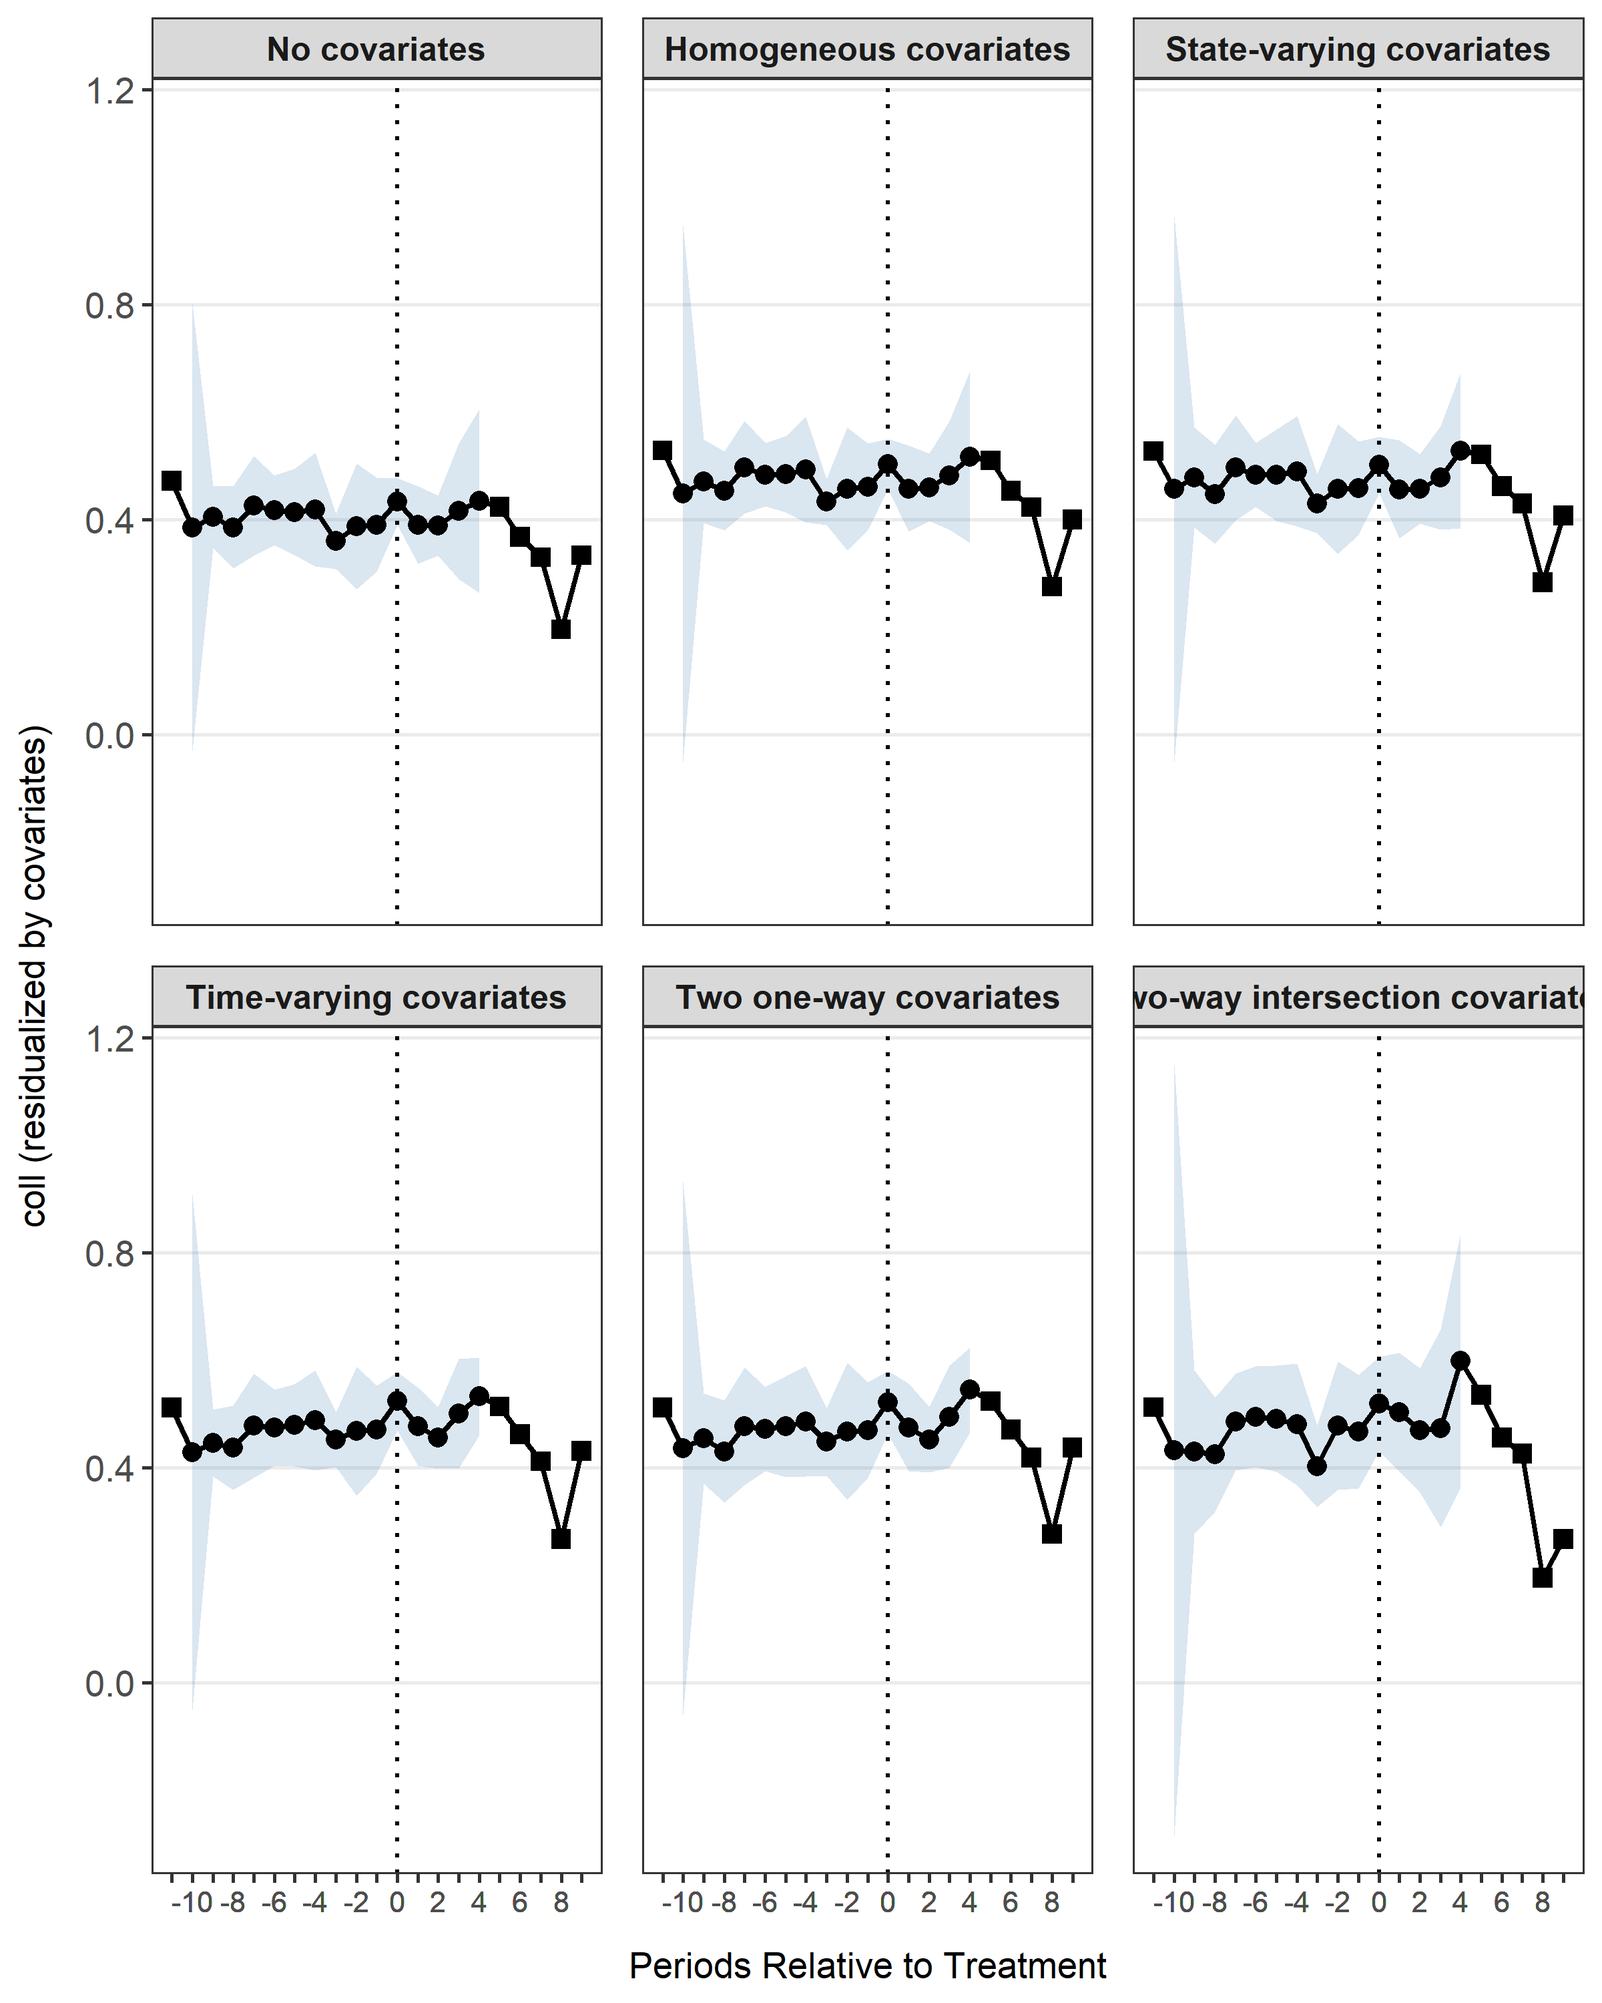
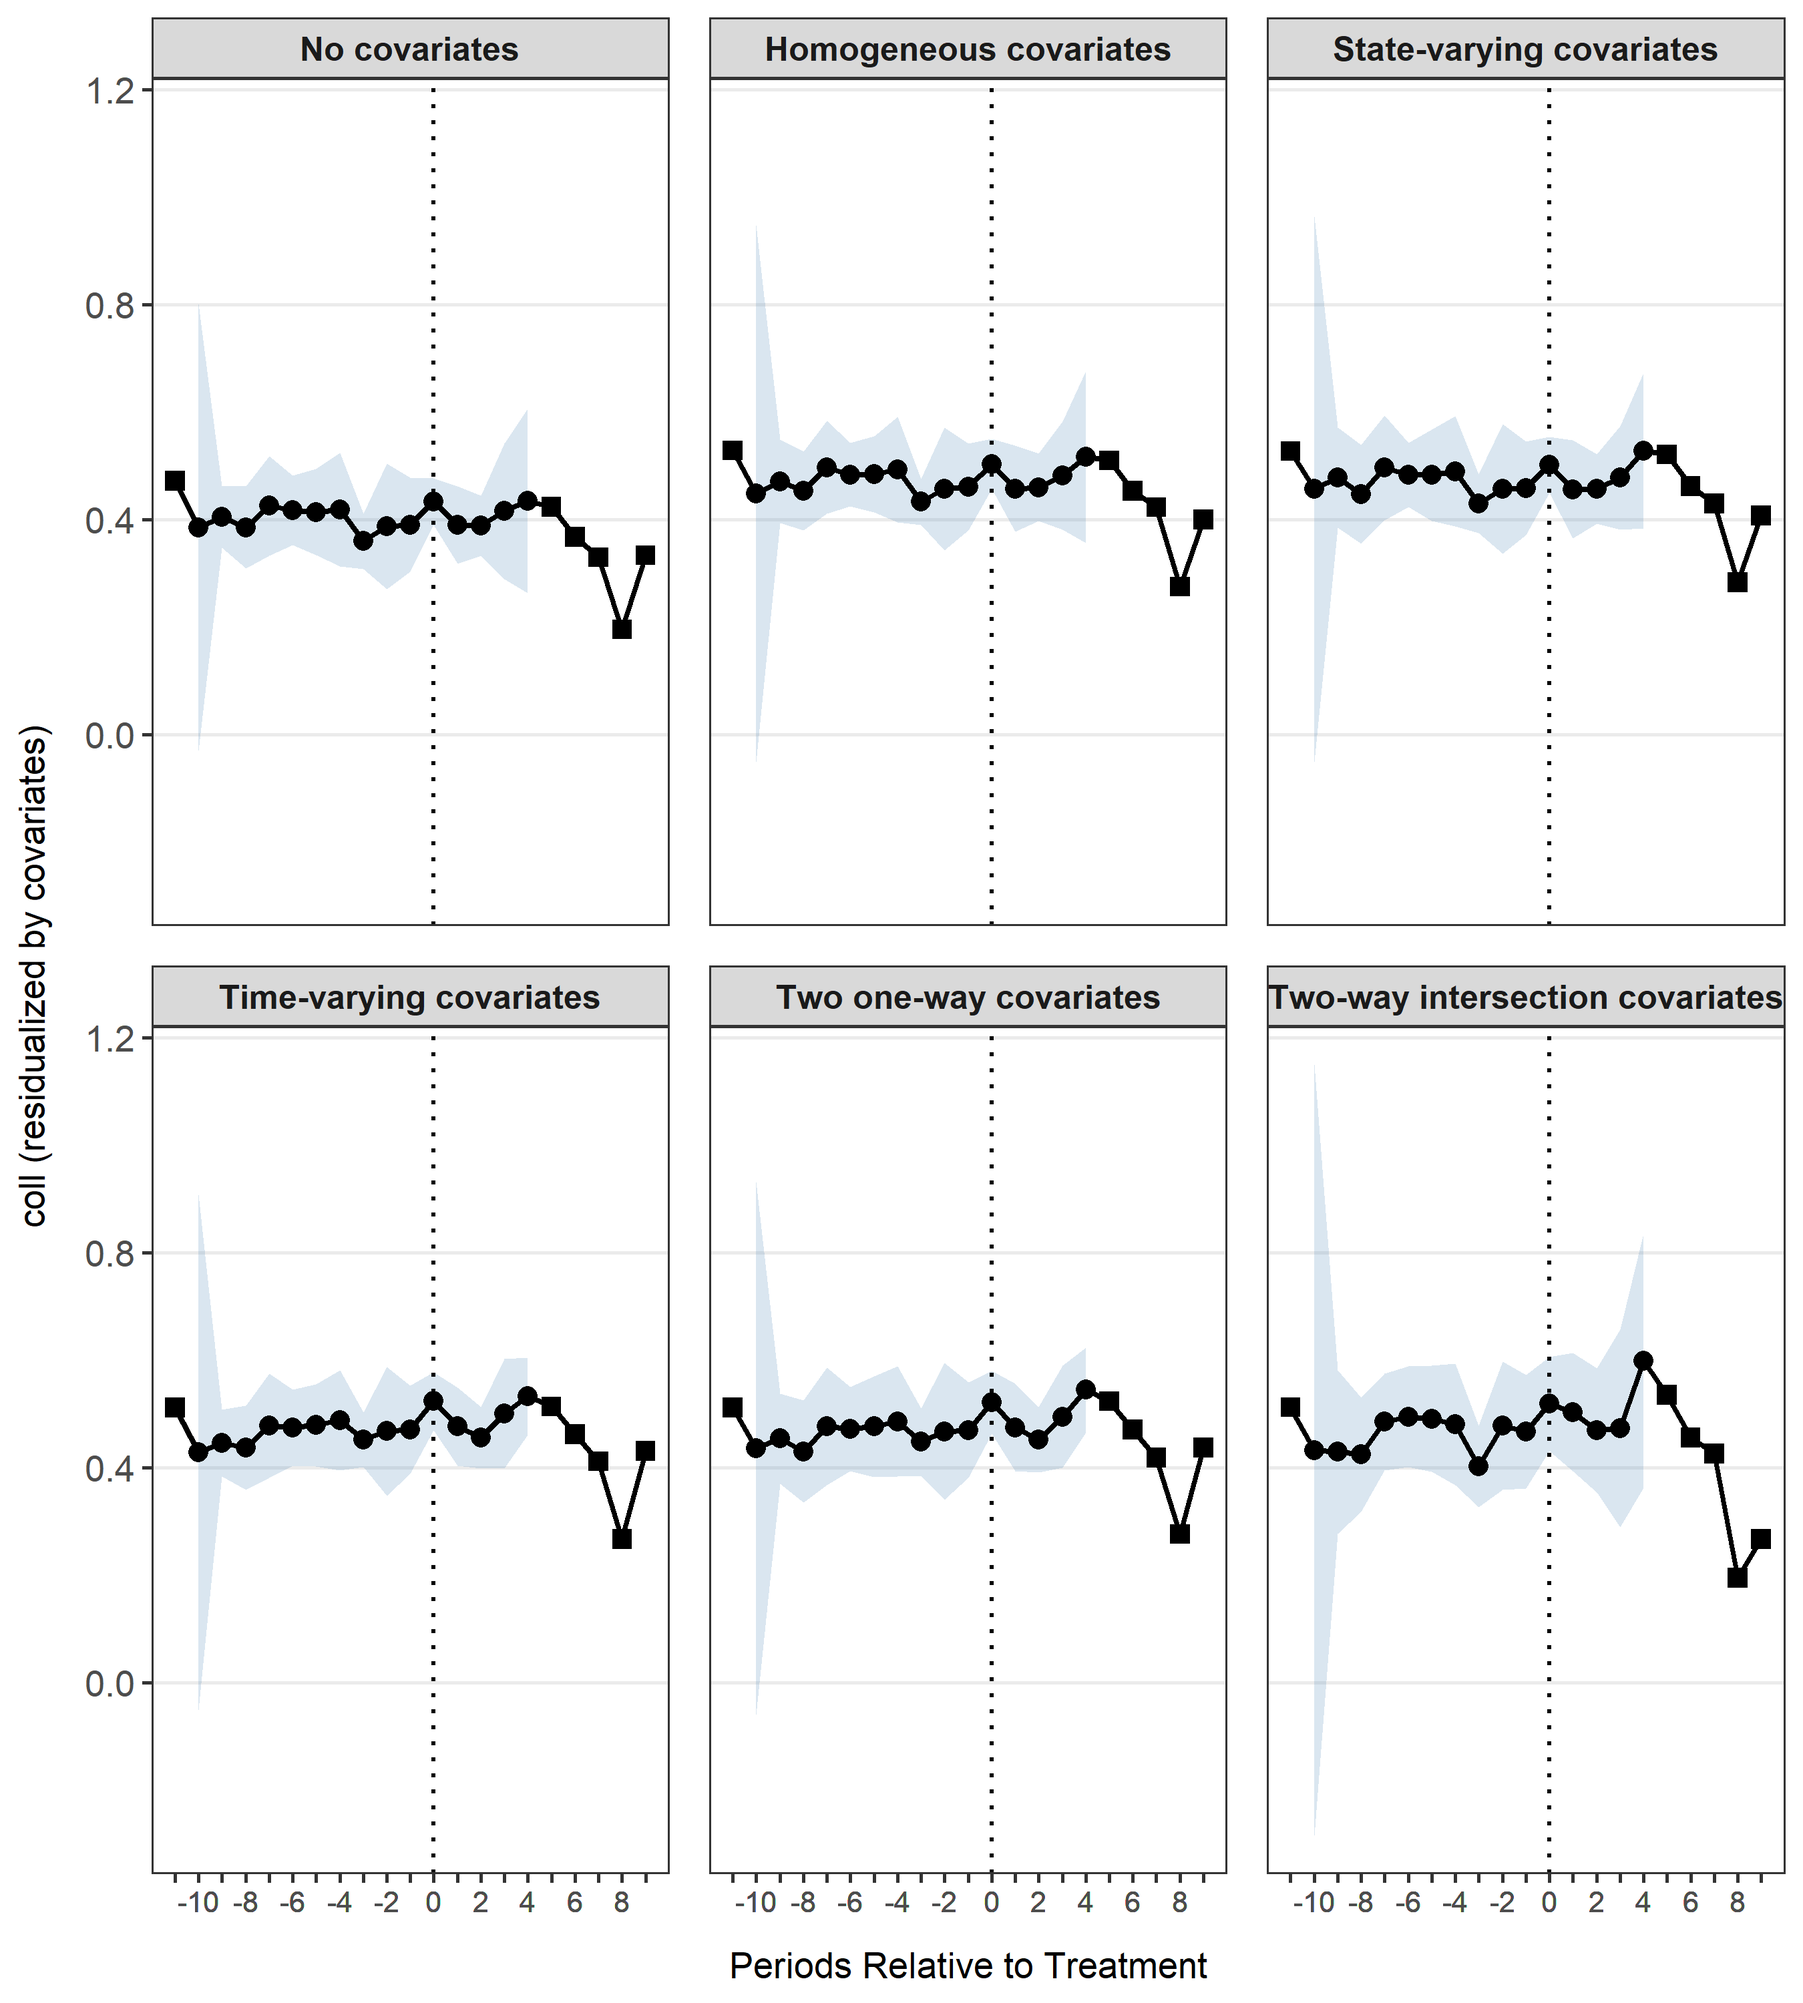
update readme and rcmdcheck yaml

diff --git a/README.md b/README.md
@@ -68,32 +68,32 @@ summary(res)
 #> 
 #> Aggregate Results:
 #>         ATT Std. Error    p-value RI p-value Jackknife SE Jackknife p-value
-#>  0.04582252 0.01440005 0.01902511  0.1011011   0.01333186         0.0138506
+#>  0.04582252 0.01440005 0.01902511  0.1241241   0.01333186         0.0138506
 #> 
 #> Subaggregate Results:
 #> Treatment Time              ATT         SE    p-value   RI p-val      JK SE   JK p-val     Weight
 #> -------------------------------------------------------------------------------------------------------------- 
-#> 1991-01-01               0.0529     0.0244     0.0307     0.4765     0.0244     0.0305     0.2018
-#> 1993-01-01               0.0236     0.0186     0.2044     0.6977     0.0185     0.2037     0.1915
-#> 1996-01-01               0.0564     0.0295     0.0572     0.4505     0.0294     0.0566     0.0757
-#> 1997-01-01               0.0711     0.0271     0.0094     0.2132     0.0270     0.0092     0.3211
-#> 1998-01-01               0.0485     0.0389     0.2146     0.4565     0.0388     0.2128     0.1086
-#> 1999-01-01               0.0120     0.0207     0.5629     0.8739     0.0206     0.5606     0.0355
-#> 2000-01-01              -0.0331     0.0976     0.7364     0.7147     0.0964     0.7334     0.0658
+#> 1991-01-01               0.0529     0.0244     0.0307     0.5235     0.0244     0.0305     0.2018
+#> 1993-01-01               0.0236     0.0186     0.2044     0.7127     0.0185     0.2037     0.1915
+#> 1996-01-01               0.0564     0.0295     0.0572     0.4915     0.0294     0.0566     0.0757
+#> 1997-01-01               0.0711     0.0271     0.0094     0.1982     0.0270     0.0092     0.3211
+#> 1998-01-01               0.0485     0.0389     0.2146     0.4895     0.0388     0.2128     0.1086
+#> 1999-01-01               0.0120     0.0207     0.5629     0.8639     0.0206     0.5606     0.0355
+#> 2000-01-01              -0.0331     0.0976     0.7364     0.7077     0.0964     0.7334     0.0658
 
 # The aggregate and sub-aggregate results can also be accessed via
 res$agg
 #>          att         se       pval   ri_pval  jknife_se jknife_pval
-#> 1 0.04582252 0.01440005 0.01902511 0.1011011 0.01333186   0.0138506
+#> 1 0.04582252 0.01440005 0.01902511 0.1241241 0.01333186   0.0138506
 res$sub
 #>        group         att         se        pval   ri_pval  jknife_se
-#> 1 1991-01-01  0.05290996 0.02439807 0.030675438 0.4764765 0.02436901
-#> 2 1993-01-01  0.02359277 0.01855183 0.204356636 0.6976977 0.01852420
-#> 3 1996-01-01  0.05643511 0.02950858 0.057186077 0.4504505 0.02943824
-#> 4 1997-01-01  0.07111675 0.02705265 0.009353063 0.2132132 0.02697389
-#> 5 1998-01-01  0.04854361 0.03891876 0.214580478 0.4564565 0.03876762
-#> 6 1999-01-01  0.01204398 0.02073484 0.562929773 0.8738739 0.02061105
-#> 7 2000-01-01 -0.03306235 0.09756409 0.736430972 0.7147147 0.09642295
+#> 1 1991-01-01  0.05290996 0.02439807 0.030675438 0.5235235 0.02436901
+#> 2 1993-01-01  0.02359277 0.01855183 0.204356636 0.7127127 0.01852420
+#> 3 1996-01-01  0.05643511 0.02950858 0.057186077 0.4914915 0.02943824
+#> 4 1997-01-01  0.07111675 0.02705265 0.009353063 0.1981982 0.02697389
+#> 5 1998-01-01  0.04854361 0.03891876 0.214580478 0.4894895 0.03876762
+#> 6 1999-01-01  0.01204398 0.02073484 0.562929773 0.8638639 0.02061105
+#> 7 2000-01-01 -0.03306235 0.09756409 0.736430972 0.7077077 0.09642295
 #>   jknife_pval    weights
 #> 1 0.030478102 0.20179564
 #> 2 0.203684129 0.19153484
@@ -153,14 +153,13 @@ via the `ccc` argument.
 plot(res_parallel, ccc = "state")
 ```
 
-<img src="man/figures/README-more_plots-1.png" width="100%" style="display: block; margin: auto;" />
+<img src="man/figures/README-more_plots_parallel-1.png" width="100%" style="display: block; margin: auto;" />
 
 ``` r
-
 plot(res_event, ccc = c("none", "hom", "int"))
 ```
 
-<img src="man/figures/README-more_plots-2.png" width="100%" style="display: block; margin: auto;" />
+<img src="man/figures/README-more_plots_event-1.png" width="100%" style="display: block; margin: auto;" />
 
 If you would like to create your own customized plots using the plotting
 data, you can acccess it via `DiDIntPlotObj$data`.
